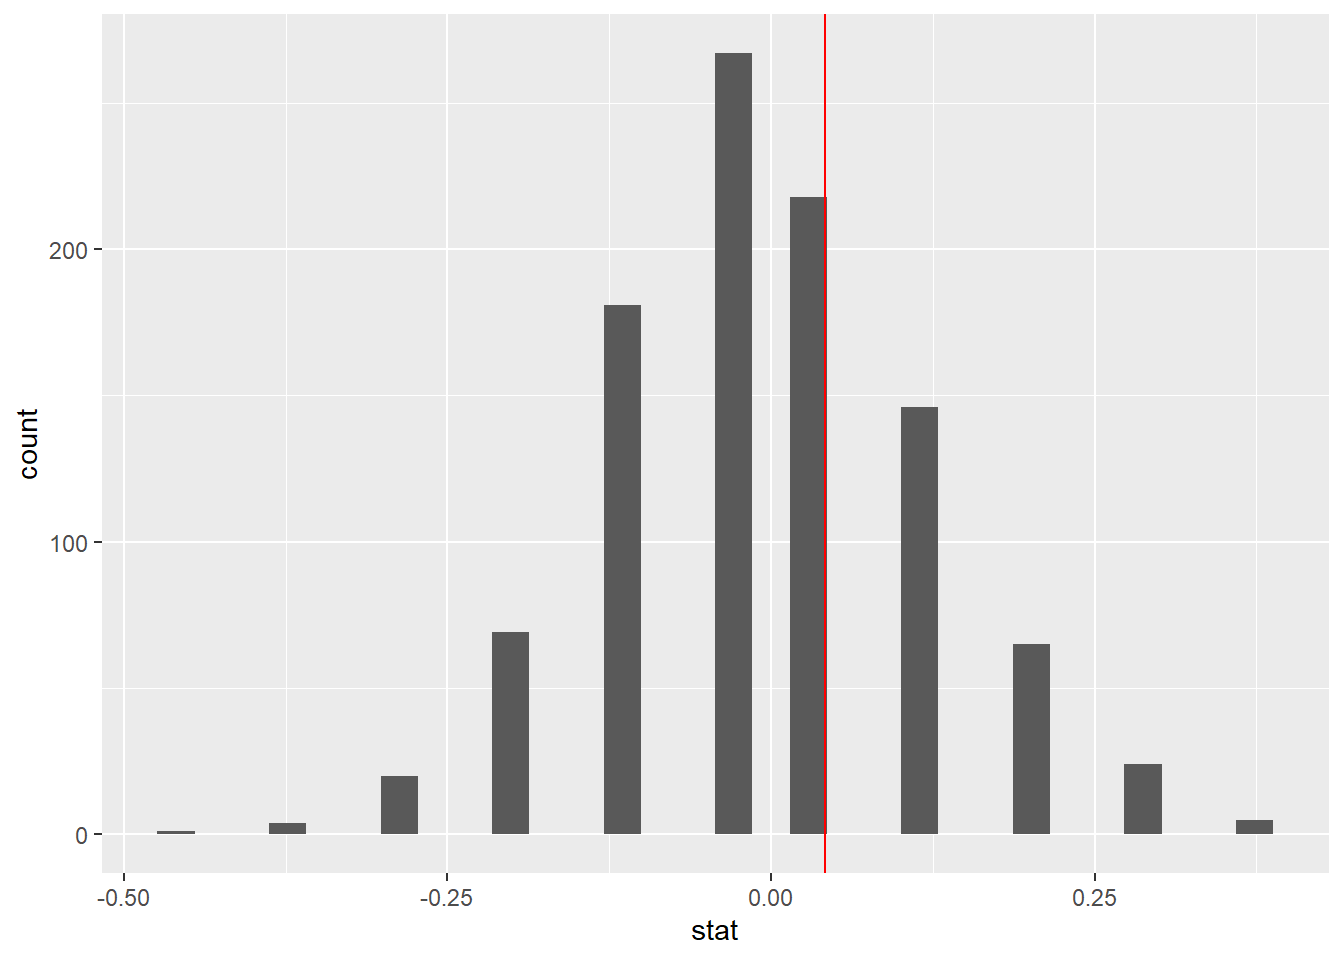
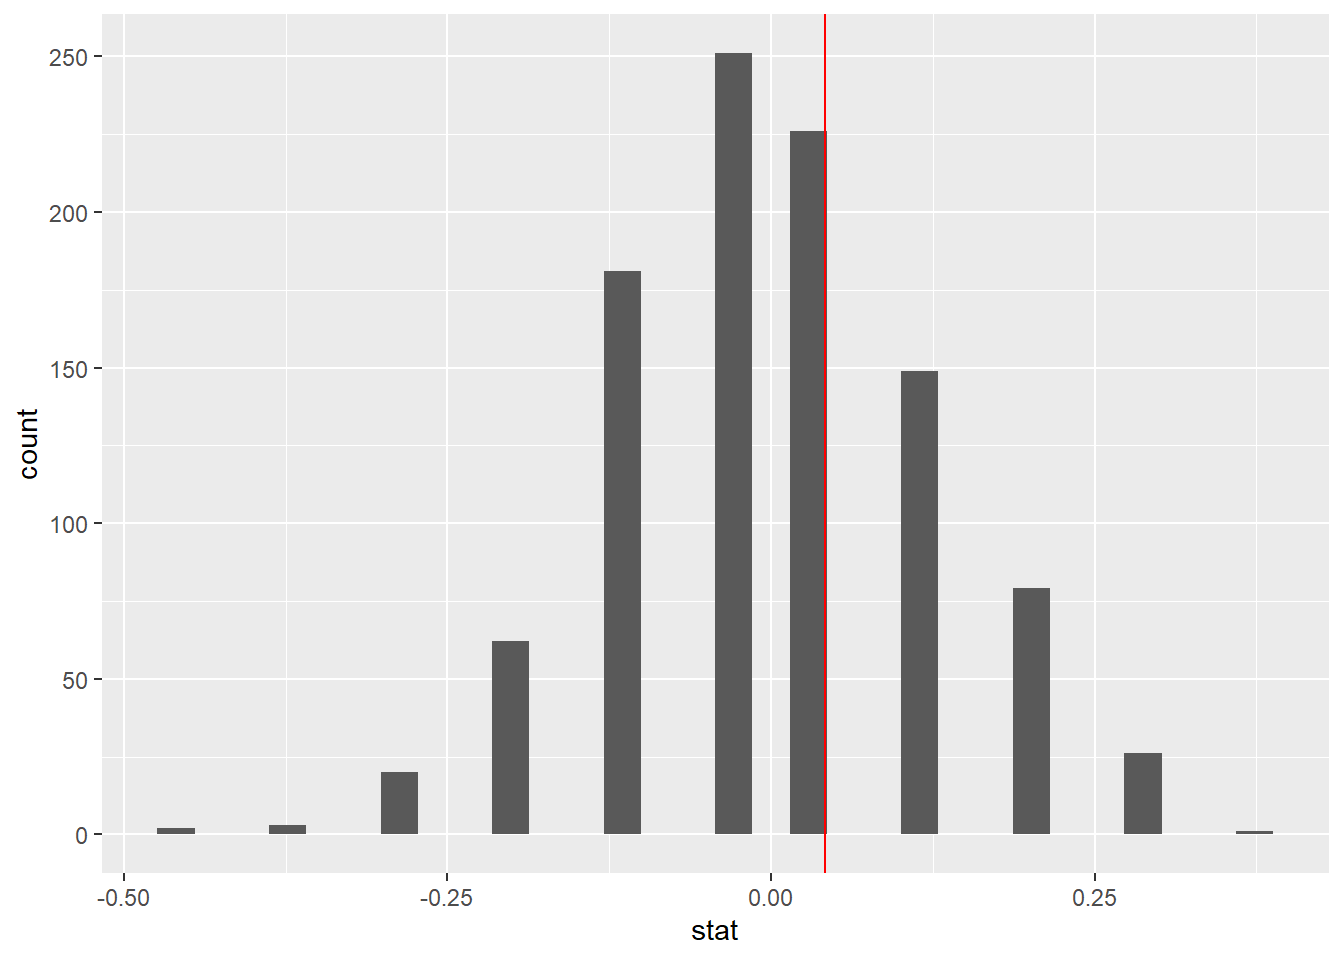
dd

diff --git a/content/post/R/2021-10-13-foundations-of-inference/index.en.html b/content/post/R/2021-10-13-foundations-of-inference/index.en.html
@@ -144,16 +144,16 @@ homeown_perm</code></pre>
 ## # Groups:   replicate [10]
 ##    HomeOwn Gender replicate
 ##    &lt;fct&gt;   &lt;fct&gt;      &lt;int&gt;
-##  1 Own     male           1
+##  1 Rent    male           1
 ##  2 Own     male           1
 ##  3 Own     male           1
 ##  4 Own     male           1
 ##  5 Own     female         1
-##  6 Own     male           1
+##  6 Rent    male           1
 ##  7 Own     male           1
 ##  8 Own     female         1
 ##  9 Own     female         1
-## 10 Rent    female         1
+## 10 Own     female         1
 ## # ... with 97,110 more rows</code></pre>
 </div>
 <div id="randomized-statistics-and-dotplot" class="section level2">
@@ -176,18 +176,18 @@ homeown_perm &lt;- homes %&gt;%
 # Print results to console
 homeown_perm</code></pre>
 <pre><code>## # A tibble: 100 x 2
-##    replicate      stat
-##        &lt;int&gt;     &lt;dbl&gt;
-##  1         1 -0.00536 
-##  2         2  0.0115  
-##  3         3 -0.0115  
-##  4         4  0.00453 
-##  5         5  0.000409
-##  6         6  0.000409
-##  7         7 -0.0103  
-##  8         8  0.00823 
-##  9         9  0.0177  
-## 10        10  0.00823 
+##    replicate        stat
+##        &lt;int&gt;       &lt;dbl&gt;
+##  1         1  0.00329   
+##  2         2 -0.00000297
+##  3         3 -0.0169    
+##  4         4 -0.00247   
+##  5         5  0.00412   
+##  6         6 -0.0165    
+##  7         7  0.00618   
+##  8         8 -0.00247   
+##  9         9  0.00123   
+## 10        10 -0.0157    
 ## # ... with 90 more rows</code></pre>
 <pre class="r"><code># Perform 100 permutations
 homeown_perm &lt;- homes %&gt;%
@@ -369,10 +369,10 @@ disc_perm %&gt;%
 <pre><code>## # A tibble: 5 x 2
 ##   replicate    stat
 ##       &lt;int&gt;   &lt;dbl&gt;
-## 1         1  0.208 
-## 2         2  0.208 
-## 3         3  0.0417
-## 4         4  0.0417
+## 1         1  0.0417
+## 2         2 -0.208 
+## 3         3  0.125 
+## 4         4 -0.125 
 ## 5         5 -0.125</code></pre>
 </div>
 <div id="randomizing-gender-discrimination" class="section level2">
@@ -438,7 +438,7 @@ ggplot(disc_perm, aes(x = stat)) +
 <pre><code>## # A tibble: 1 x 3
 ##    q.90  q.95  q.99
 ##   &lt;dbl&gt; &lt;dbl&gt; &lt;dbl&gt;
-## 1 0.125 0.208 0.292</code></pre>
+## 1 0.208 0.208 0.292</code></pre>
 </div>
 <div id="two-sided-critical-region" class="section level2">
 <h2>2-9 Two-sided critical region</h2>
@@ -464,16 +464,16 @@ disc_perm %&gt;%
 <pre><code>## # A tibble: 1,000 x 2
 ##    replicate    stat
 ##        &lt;int&gt;   &lt;dbl&gt;
-##  1         1  0.125 
-##  2         2  0.0417
-##  3         3 -0.125 
-##  4         4 -0.125 
-##  5         5  0.0417
-##  6         6  0.0417
+##  1         1  0.0417
+##  2         2  0.208 
+##  3         3 -0.0417
+##  4         4 -0.0417
+##  5         5 -0.0417
+##  6         6 -0.0417
 ##  7         7  0.0417
-##  8         8 -0.125 
-##  9         9 -0.125 
-## 10        10  0.0417
+##  8         8 -0.292 
+##  9         9  0.125 
+## 10        10 -0.125 
 ## # ... with 990 more rows</code></pre>
 <pre class="r"><code># For an unknown reason, result is not same as DataCamp result. Therefore, I added below line:
 #disc_perm &lt;- read.csv(&quot;disc_perm.csv&quot;)
@@ -537,7 +537,7 @@ calc_upper_quantiles(disc_perm)</code></pre>
 <pre><code>## # A tibble: 1 x 3
 ##    q.90  q.95  q.99
 ##   &lt;dbl&gt; &lt;dbl&gt; &lt;dbl&gt;
-## 1 0.125 0.208 0.292</code></pre>
+## 1 0.208 0.208 0.292</code></pre>
 <pre class="r"><code># Calculate the quantiles associated with the small dataset
 calc_upper_quantiles(disc_perm_small)</code></pre>
 <pre><code>##   q.90 q.95 q.99
@@ -564,7 +564,7 @@ disc_perm %&gt;%
 <pre><code>## # A tibble: 1 x 1
 ##   p_value
 ##     &lt;dbl&gt;
-## 1   0.458</code></pre>
+## 1   0.481</code></pre>
 <pre class="r"><code># Visualize and calculate the p-value for the small dataset
 #disc_perm_small %&gt;%
 #  visualize(obs_stat = diff_orig_small, direction = &quot;greater&quot;)
@@ -582,8 +582,8 @@ disc_perm_small %&gt;%
 disc_perm_big %&gt;%
   get_p_value(obs_stat = diff_orig_big, direction = &quot;greater&quot;)</code></pre>
 <pre><code>## Warning: Please be cautious in reporting a p-value of 0. This result is an
-## approximation based on the number of `reps` chosen in the `generate()` step. See
-## `?get_p_value()` for more information.</code></pre>
+## approximation based on the number of `reps` chosen in the `generate()` step. See `?
+## get_p_value()` for more information.</code></pre>
 <pre><code>## # A tibble: 1 x 1
 ##   p_value
 ##     &lt;dbl&gt;
@@ -627,7 +627,7 @@ disc_perm %&gt;%
 <pre><code>## # A tibble: 1 x 1
 ##   p_value
 ##     &lt;dbl&gt;
-## 1   0.458</code></pre>
+## 1   0.481</code></pre>
 <pre class="r"><code># Find the p-value from the new data
 disc_perm_new %&gt;%
   summarize(p_value = mean(diff_orig_new &lt;= stat))</code></pre>
@@ -646,14 +646,14 @@ disc_perm %&gt;%
 <pre><code>## # A tibble: 1 x 1
 ##   p_value
 ##     &lt;dbl&gt;
-## 1   0.916</code></pre>
+## 1   0.962</code></pre>
 </div>
 <div id="hypothesis-testing-errors-opportunity-cost" class="section level2">
 <h2>3- Hypothesis testing errors: opportunity cost</h2>
 <p>You will continue learning about hypothesis testing with a new example and the same structure of randomization tests. In this chapter, however, the focus will be on different errors (type I and type II), how they are made, when one is worse than another, and how things like sample size and effect size impact the error rates.</p>
 </div>
 <div id="summarizing-opportunity-cost-1" class="section level2">
-<h2>3-2- Summarizing opportunity cost (1)</h2>
+<h2>3-2 Summarizing opportunity cost (1)</h2>
 <p>As you saw in the video, we’re interested in whether the treatment and control groups were equally likely to buy a DVD after reading the experimental statements.</p>
 <p>In this exercise, you’ll use the data from the study to find the sample statistics (here: proportions) that are needed for the analysis.</p>
 <pre class="r"><code>opportunity</code></pre>
@@ -827,7 +827,7 @@ opportunity %&gt;%
 ## 2 treatment    0.547</code></pre>
 </div>
 <div id="plotting-opportunity-cost" class="section level2">
-<h2>3-3- Plotting opportunity cost</h2>
+<h2>3-3 Plotting opportunity cost</h2>
 <p>Again, interest is in whether the treatment and control groups were equally likely to buy a DVD after reading the experimental statements. Here, you’ll create a barplot to visualize the difference in proportions between the treatment and control groups.</p>
 <pre class="r"><code># Plot group, filled by decision
 ggplot(opportunity, aes(x = group, fill = decision)) + 
@@ -836,7 +836,7 @@ ggplot(opportunity, aes(x = group, fill = decision)) +
 <p><img src="{{< blogdown/postref >}}index.en_files/figure-html/unnamed-chunk-28-1.png" width="672" /></p>
 </div>
 <div id="randomizing-opportunity-cost" class="section level2">
-<h2>3-4- Randomizing opportunity cost</h2>
+<h2>3-4 Randomizing opportunity cost</h2>
 <p>As in Chapter 2 Exercise 5, you will permute the data to generate a distribution of differences as if the null hypothesis were true.</p>
 <p>In the study, the number of individuals in each of the control and treatment groups is fixed. Additionally, when you assume that the null hypothesis is true—that is, the experiment had no effect on the outcome of buying a DVD—it is reasonable to infer that the number of individuals who would buy a DVD is also fixed. That is, 97 people were going to buy a DVD regardless of which treatment group they were in.</p>
 <p>Using the new data and the methods from the previous chapter, create a randomization distribution of the difference in proportions calculated on permuted data.</p>
@@ -865,16 +865,16 @@ opp_perm</code></pre>
 <pre><code>## # A tibble: 1,000 x 2
 ##    replicate    stat
 ##        &lt;int&gt;   &lt;dbl&gt;
-##  1         1  0.12  
-##  2         2  0.12  
-##  3         3 -0.0667
-##  4         4 -0.0400
-##  5         5 -0.0133
-##  6         6  0.0667
-##  7         7  0.0400
-##  8         8 -0.0667
-##  9         9  0.0133
-## 10        10 -0.0667
+##  1         1 -0.0133
+##  2         2 -0.173 
+##  3         3  0.0933
+##  4         4  0.0133
+##  5         5  0.0933
+##  6         6  0.0133
+##  7         7  0.0933
+##  8         8  0.0667
+##  9         9 -0.0400
+## 10        10  0.0933
 ## # ... with 990 more rows</code></pre>
 <pre class="r"><code># From previous steps
 diff_obs &lt;- opportunity %&gt;%
@@ -897,7 +897,7 @@ ggplot(opp_perm, aes(x = stat)) +
 <p><img src="{{< blogdown/postref >}}index.en_files/figure-html/unnamed-chunk-31-1.png" width="672" /></p>
 </div>
 <div id="summarizing-opportunity-cost-2" class="section level2">
-<h2>3-5- Summarizing opportunity cost (2)</h2>
+<h2>3-5 Summarizing opportunity cost (2)</h2>
 <p>Now that you’ve created the randomization distribution, you’ll use it to assess whether the observed difference in proportions is consistent with the null difference. You will measure this consistency (or lack thereof) with a p-value, or the proportion of permuted differences less than or equal to the observed difference.</p>
 <p>The permuted dataset and the original observed statistic are available in your workspace as opp_perm and diff_orig respectively.</p>
 <p>visualize and get_p_value using the built in infer functions. Remember that the null statistics are above the original difference, so the p-value (which represents how often a null value is more extreme) is calculated by counting the number of null values which are less than the original difference.</p>
@@ -911,14 +911,14 @@ opp_perm %&gt;%
 <pre><code>## # A tibble: 1 x 1
 ##   p_value
 ##     &lt;dbl&gt;
-## 1   0.754</code></pre>
+## 1   0.744</code></pre>
 <pre class="r"><code># Calculate the p-value using `summarize`
 opp_perm %&gt;%
   summarize(p_value = mean(stat &lt;= diff_orig))</code></pre>
 <pre><code>## # A tibble: 1 x 1
 ##   p_value
 ##     &lt;dbl&gt;
-## 1   0.754</code></pre>
+## 1   0.744</code></pre>
 <p>Q: In the last exercise, you computed the p-value, or the proportion of permuted differences less than or equal to the observed difference:</p>
 <p>opp_perm %&gt;%
 summarize(p_value = mean(stat &lt;= diff_orig))</p>
@@ -941,7 +941,7 @@ What are type I (false positive) and type II (false negative) errors for the two
 </div>
 </div>
 <div id="p-value-for-two-sided-hypotheses-opportunity-costs" class="section level2">
-<h2>3-10- p-value for two-sided hypotheses: opportunity costs</h2>
+<h2>3-10 p-value for two-sided hypotheses: opportunity costs</h2>
 <p>The p-value measures the likelihood of data as or more extreme than the observed data, given the null hypothesis is true. Therefore, the appropriate p-value for a two-sided alternative hypothesis is a two-sided p-value.</p>
 <p>To find a two-sided p-value, you simply double the one sided p-value. That is, you want to find two times the proportion of permuted differences that are less than or equal to the observed difference.</p>
 <p>The opp_perm data frame, containing the differences in permuted proportions, and the original observed statistic, diff_orig, are available in your workspace.</p>
@@ -949,16 +949,16 @@ What are type I (false positive) and type II (false negative) errors for the two
 <pre><code>## # A tibble: 1,000 x 2
 ##    replicate    stat
 ##        &lt;int&gt;   &lt;dbl&gt;
-##  1         1 -0.0667
-##  2         2 -0.0667
-##  3         3 -0.0400
-##  4         4  0.2   
-##  5         5  0.0933
-##  6         6  0.0133
-##  7         7 -0.0400
-##  8         8  0.0933
-##  9         9  0.0400
-## 10        10  0.0400
+##  1         1  0.0400
+##  2         2  0.0667
+##  3         3  0.0133
+##  4         4  0.0667
+##  5         5 -0.0933
+##  6         6  0.12  
+##  7         7  0.0667
+##  8         8 -0.12  
+##  9         9  0.0667
+## 10        10 -0.0400
 ## # ... with 990 more rows</code></pre>
 <pre class="r"><code># Calculate the two-sided p-value
 opp_perm %&gt;%
@@ -966,12 +966,91 @@ opp_perm %&gt;%
 <pre><code>## # A tibble: 1 x 1
 ##   p_value
 ##     &lt;dbl&gt;
-## 1    1.51</code></pre>
+## 1    1.49</code></pre>
 </div>
 <div id="confidence-intervals" class="section level2">
 <h2>4- Confidence intervals</h2>
 <p>As a complement to hypothesis testing, confidence intervals allow you to estimate a population parameter. Recall that your interest is always in some characteristic of the population, but you only have incomplete information to estimate the parameter using sample data. Here, the parameter is the true proportion of successes in a population. Bootstrapping is used to estimate the variability needed to form the confidence interval.</p>
+<p>Q: What is the parameter?</p>
+<p>In November 2016, the voters elected a new president of the United States. Prior to the election, thousands of polls were taken to gauge the popularity of each of the candidates. Leaving aside the idea that popular opinion changes over time, a poll can be thought of as a sample of individuals measured so as to estimate the proportion of all voters who will vote for each candiate (i.e. the population parameter).</p>
+<p>Consider an election in your home town that will take place in a week’s time. You poll a randomly selected subset of the voters in your town and ask them if they plan to vote for Candidate X or Candidate Y. In this chapter, we will focus on sampling variability—the variability in sample proportions due to polling different randomly selected individuals from the population.</p>
+<p>Before investigating the sampling variability, what is the population parameter of interest?</p>
+<p>A: The proportion of all voters in your town who will vote for Candidate X on election day.</p>
+<p>Q:Hypothesis test or confidence interval?</p>
+<p>A university is trying to determine whether parking is a problem on its campus. The student newspaper contacts a random sample of 200 students and asks whether or not they are frustrated with the parking situation. They want to estimate the proportion of students at the college who are frustrated with the parking situation.</p>
+<p>In this setting, which is more appropriate, a hypothesis test or a confidence interval?</p>
+<p>A:Confidence interval because the goal is to estimate a population parameter.</p>
 </div>
-<div id="section-2" class="section level2">
-<h2>4-2-</h2>
+<div id="resampling-from-a-sample" class="section level2">
+<h2>4-5 Resampling from a sample</h2>
+<p>To investigate how much the estimates of a population proportion change from sample to sample, you will set up two sampling experiments.</p>
+<p>In the first experiment, you will simulate repeated samples from a population. In the second, you will choose a single sample from the first experiment and repeatedly resample from that sample: a method called bootstrapping. More specifically:</p>
+<p>Experiment 1: Assume the true proportion of people who will vote for Candidate X is 0.6. Repeatedly sample 30 people from the population and measure the variability of
+(the sample proportion).</p>
+<p>Experiment 2: Take one sample of size 30 from the same population. Repeatedly sample 30 people (with replacement!) from the original sample and measure the variability of
+(the resample proportion).</p>
+<p>It’s important to realize that the first experiment relies on knowing the population and is typically impossible in practice. The second relies only on the sample of data and is therefore easy to implement for any statistic. Fortunately, as you will see, the variability in
+, or the proportion of “successes” in a sample, is approximately the same whether we sample from the population or resample from a sample.</p>
+<p>We have created 1000 random samples, each of size 30, from the population. The resulting data frame, all_polls, is available in your workspace. Take a look before getting started.</p>
+</div>
+<div id="visualizing-the-variability-of-p-hat" class="section level2">
+<h2>4-6 Visualizing the variability of p-hat</h2>
+<p>In order to compare the variability of the sampled
+and
+values in the previous exercises, it is valuable to visualize their distributions. To recall, the exercises walked through two different experiments for investigating the variability of P and P*:</p>
+<p>Experiment 1: Sample () repeatedly from an extremely large population (gold standard, but unrealistic)</p>
+<p>Experiment 2: Resample () repeatedly with replacement from a single sample of size 30</p>
+</div>
+<div id="empirical-rule" class="section level2">
+<h2>4-9 Empirical Rule</h2>
+<p>Many statistics we use in data analysis (including both the sample average and sample proportion) have nice properties that are used to better understand the population parameter(s) of interest.</p>
+<p>One such property is that if the variability of the sample proportion (called the standard error, or ) is known, then approximately 95% of
+values (from different samples) will be within of the true population proportion.</p>
+<p>To check whether that holds in the situation at hand, let’s go back to the polls generated by taking many samples from the same population.</p>
+<p>The all_polls dataset contains 1000 samples of size 30 from a population with a probability of voting for Candidate X equal to 0.6.</p>
+<p>Note that you will use the R function sd() which calculates the variability of any set of numbers. In statistics, when sd() is applied to a variable (e.g., price of house) we call it the standard deviation. When sd() is applied to a statistic (e.g., set of sample proportions) we call it the standard error.</p>
+</div>
+<div id="bootstrap-t-confidence-interval" class="section level2">
+<h2>4-10 Bootstrap t-confidence interval</h2>
+<p>The previous exercises told you two things:</p>
+<p>You can measure the variability associated with
+by resampling from the original sample.
+Once you know the variability of
+, you can use it as a way to measure how far away the true proportion is.
+Note that the rate of closeness (here 95%) refers to how often a sample is chosen so that it is close to the population parameter. You won’t ever know if a particular dataset is close to the parameter or far from it, but you do know that over your lifetime, 95% of the samples you collect should give you estimates that are within of the true population parameter.</p>
+<p>The votes from a single poll, one_poll, and the data from 1000 bootstrap resamples, one_poll_boot are available in your workspace. These are based on Experiment 2 from earlier in the chapter.</p>
+<p>As in the previous exercise, when discussing the variability of a statistic, the number is referred to as the standard error.</p>
+</div>
+<div id="bootstrap-percentile-interval" class="section level2">
+<h2>4-11 Bootstrap percentile interval</h2>
+<p>The main idea in the previous exercise was that the distance between the original sample
+and the resampled (or bootstrapped)
+values gives a measure for how far the original
+is from the true population proportion.</p>
+<p>The same variability can be measured through a different mechanism. As before, if
+is sufficiently close to the true parameter, then the resampled (bootstrapped)
+values will vary in such a way that they overlap with the true parameter.</p>
+<p>Instead of using as a way to measure the middle 95% of the sampled
+values, you can find the middle of the resampled
+values by removing the upper and lower 2.5%. Note that this second method of constructing bootstrap intervals also gives an intuitive way for making 90% or 99% confidence intervals as well as 95% intervals.</p>
+<p>The bootstrapped resamples, one_poll_boot, and the proportion of yes votes, p_hat are available in your workspace.</p>
+</div>
+<div id="sample-size-effects-on-bootstrap-cis" class="section level2">
+<h2>4-13 Sample size effects on bootstrap CIs</h2>
+<p>In a previous multiple choice exercise, you realized that if you resampled the data with the wrong size (e.g. 300 or 3 instead of 30), the standard error (SE) of the sample proportions was off. With 300 resampled observations, the SE was too small. With 3 resampled observations, the SE was too large.</p>
+<p>Here, you will use the incorrect standard error (based on the incorrect sample size) to create a confidence interval. The idea is that when the standard error is off, the interval is not particularly useful, nor is it correct.</p>
+</div>
+<div id="sample-proportion-value-effects-on-bootstrap-cis" class="section level2">
+<h2>4-14 Sample proportion value effects on bootstrap CIs</h2>
+<p>One additional element that changes the width of the confidence interval is the sample parameter value,
+.</p>
+<p>Generally, when the true parameter is close to 0.5, the standard error of
+is larger than when the true parameter is closer to 0 or 1. When calculating a bootstrap t-confidence interval, the standard error controls the width of the CI, and here (given a true parameter of 0.8) the sample proportion is higher than in previous exercises, so the width of the confidence interval will be narrower.</p>
+</div>
+<div id="percentile-effects-on-bootstrap-cis" class="section level2">
+<h2>4-15 Percentile effects on bootstrap CIs</h2>
+<p>Most scientists use 95% intervals to quantify their uncertainty about an estimate. That is, they understand that over a lifetime of creating confidence intervals, only 95% of them will actually contain the parameter that they set out to estimate.</p>
+<p>There are studies, however, which warrant either stricter or more lenient confidence intervals (and subsequent error rates).</p>
+<p>The previous bootstrapped
+values have been loaded for you and are available in one_poll_boot.</p>
 </div>
